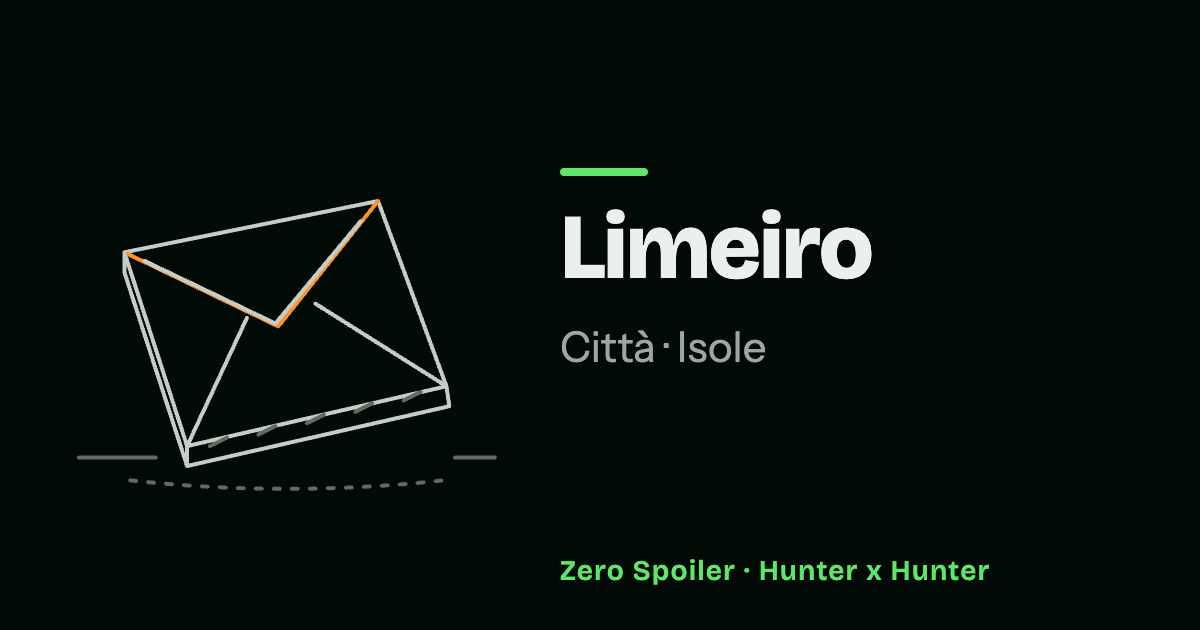
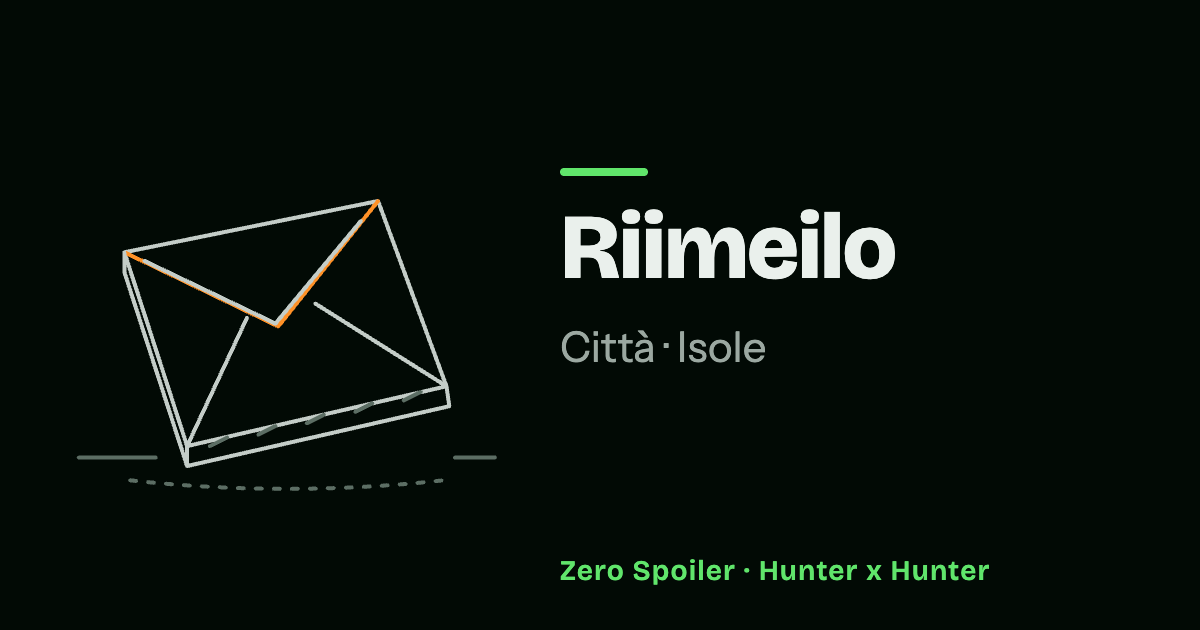
fix(hunter-x-hunter): give the Greed Island capital its Italian name (#1245)

Changed region(s): [[0.4625, 0.3317, 0.7708, 0.4524]]

diff --git a/src/data/series/hunter-x-hunter/records/greed-island.ts b/src/data/series/hunter-x-hunter/records/greed-island.ts
@@ -372,7 +372,7 @@ export const greedIsland: HunterSaga = {
       kind: 'place',
       revealedAtEpisode: 75,
       revealedAtChapter: 183,
-      name: { it: 'Limeiro', en: 'Limeiro' },
+      name: { it: 'Riimeilo', en: 'Limeiro' },
       summary: {
         it: 'La capitale di Greed Island, dove Gon viene invitato a ritirare l’ultima carta del gioco.',
         en: 'The capital of Greed Island, where Gon is invited to receive the game’s final card.',
